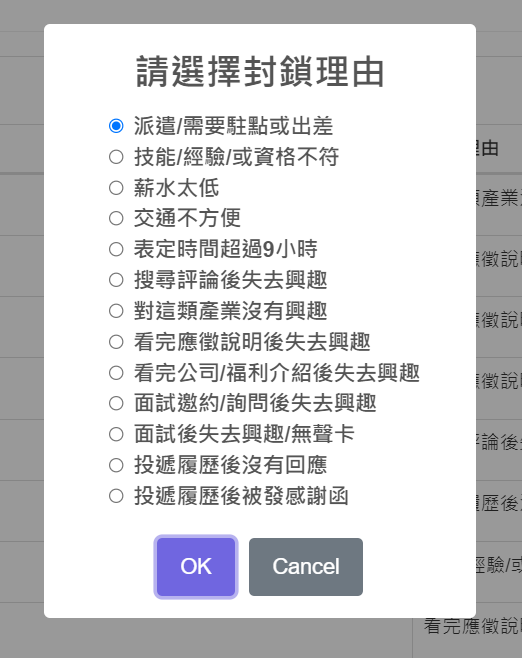
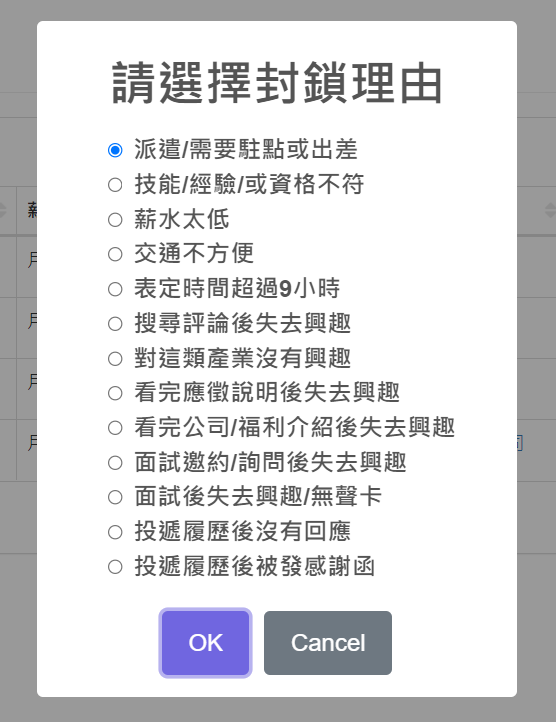
微調UI

Changed region(s): [[0.0307, 0.0304, 1.0, 0.9726]]

diff --git a/readme.md b/readme.md
@@ -73,7 +73,4 @@ create table CrawlSetting
 # 將DB的資料匯出成CSV檔案  
 ![image](https://github.com/Jacky20200711/JobFilter2/blob/master/DEMO_07.PNG?raw=true)  
 &emsp;  
-# 確認匯出結果  
-![image](https://github.com/Jacky20200711/JobFilter2/blob/master/DEMO_08.PNG?raw=true)  
-&emsp;  
 
